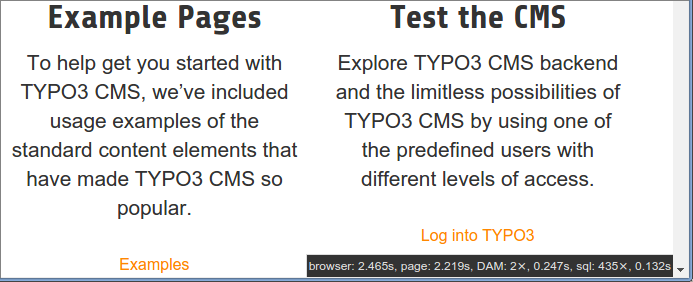
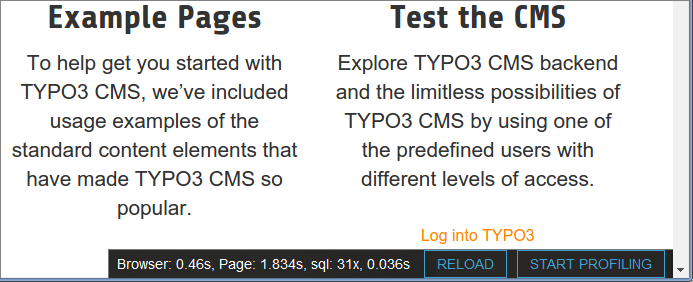
NRFE-558: updated documentation

Changed region(s): [[0.1515, 0.8794, 0.9697, 0.9929]]

diff --git a/README.rst b/README.rst
@@ -28,6 +28,9 @@ override the browser cache.
 Hovering over the button shows the current document.location (helpful on 
 devices that don't display a URL bar).
 
+The start profiling button will reload the page and start a xhprof profiling. After
+the reload you will get a link to see the results.
+
 =================
 Cookie Protection
 =================
@@ -41,12 +44,13 @@ has the cookie ``nr_perfanalysis=1`` set.
 
 Default performance indicators
 ==============================
-``page``
+``Browser``
+  Browser `rendering time`__
+``Page``
   Server-side page rendering time
 ``sql``
   SQL query count and time
-``browser``
-  Browser `rendering time`__
+
 
 __ http://www.w3.org/TR/2012/REC-navigation-timing-20121217/#sec-window.performance-attribute
 
@@ -69,6 +73,13 @@ Finish it off::
 Now you logged a "PUT" event in the "REST" group, and the REST group
 will show up in the statistics on the bottom right.
 
+======
+Xhprof
+======
+To be able to use Xhprof it is necessary to have Xhprof installed.
+In the extension manager you have to set the path to your Xhprof installation,
+e.g. /srv/www/xhprof/ and the base-url under which you can see the profiler output,
+e.g. www.yourserver.de/xhprof/.
 
 ============
 Dependencies
